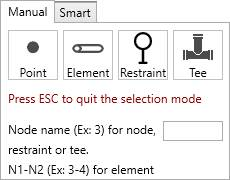
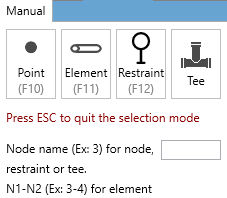
Corrections

diff --git a/Design/Elements/Bellow.md b/Design/Elements/Bellow.md
@@ -24,6 +24,14 @@ The **selection mode** is automatically set to **POINT**. You can so directly se
 
 ![Image](../../Images/Bellow2.jpg)
 
+By default, the orientation of the element is defined to **Insert** represented by a blue arrow with direction tangent to the previous element.
+
+You can decide to use the **orientation tool** to define another direction by unchecking this option. This panel will appear :
+
+![Image](../../Images/Orientation2.jpg)
+
+Click [here](https://documentation.metapiping.com/Design/Elements/Orientation.html) for more information about the orientation tool.
+
 **BELLOW PROPERTIES** :
 
 - Axial : *Axial and lateral displacements and rotations are permitted*
@@ -31,8 +39,6 @@ The **selection mode** is automatically set to **POINT**. You can so directly se
 - Lateral in all planes : *Lateral displacements are permitted in all directions perpendicular to the element axis Z’. No axial displacements nor rotations are permitted*
 - Angular in a single plane : *Rotations are only permitted about the local axis Y’. The movements are thus restricted to the plane defined by the local axes Z’ and X’*
 - Angular in all planes : *Rotations are permitted about all axes perpendicular to Z’*
-
->The length must be defined by the **orientation tool**.
 
 Based on **type**, you have to define several properties :
 
@@ -128,11 +134,21 @@ The tables will be filled automatically.
 
 Click [here](https://documentation.metapiping.com/Settings/Databases/Components.html) for more information about creation of library of components.
 
-**Label** :
+**X-AXIS DIRECTION** :
+
+You can define the **X-axis** vector by defining Xx, Xy, Xz in global coordinates.
+
+Use the left and right keyboard arrows to turn the **X-axis** vector 90°/-90°around the tangent direction.
+
+**LABEL** :
 
 You can define a label to this element. The labels are shown with the node names view button.
 
 ![Image](../../Images/Label1.jpg)
+
+**NEXT NODE** :
+
+You can set the next extremity node name of the element. If blank, the software will define it automatically. The software will also check that the name doesn't already exist.
 
 ---
 

diff --git a/Design/Elements/Flange.md b/Design/Elements/Flange.md
@@ -24,6 +24,14 @@ The **selection mode** is automatically set to **POINT**. You can so directly se
 
 ![Image](../../Images/Flange2.jpg)
 
+By default, the orientation of the element is defined to **Insert** represented by a blue arrow with direction tangent to the previous element.
+
+You can decide to use the **orientation tool** to define another direction by unchecking this option. This panel will appear :
+
+![Image](../../Images/Orientation2.jpg)
+
+Click [here](https://documentation.metapiping.com/Design/Elements/Orientation.html) for more information about the orientation tool.
+
 **FLANGE PROPERTIES** :
 
 Define the properties of the new flange :
@@ -61,11 +69,17 @@ Click [here](https://documentation.metapiping.com/Settings/Databases/Components.
 
 You can define the **X-axis** vector by defining Xx, Xy, Xz in global coordinates.
 
-**Label** :
+Use the left and right keyboard arrows to turn the **X-axis** vector 90°/-90°around the tangent direction.
+
+**LABEL** :
 
 You can define a label to this element. The labels are shown with the node names view button.
 
 ![Image](../../Images/Label1.jpg)
+
+**NEXT NODE** :
+
+You can set the next extremity node name of the element. If blank, the software will define it automatically. The software will also check that the name doesn't already exist.
 
 ---
 
@@ -92,6 +106,10 @@ You can change the **specification** and **section/material** of the flange.
 **X-AXIS DIRECTION** :
 
 You can change the **X-axis** vector by defining Xx, Xy, Xz in global coordinates.
+
+**LABEL** :
+
+You can modify the label of the valve. The labels are shown with the node names view button.
 
 Click on the **Modify** button to change the selected flange with these new properties.
 

diff --git a/Design/Elements/Socket.md b/Design/Elements/Socket.md
@@ -24,6 +24,14 @@ The **selection mode** is automatically set to **POINT**. You can so directly se
 
 ![Image](../../Images/Socket2.jpg)
 
+By default, the orientation of the element is defined to **Insert** represented by a blue arrow with direction tangent to the previous element.
+
+You can decide to use the **orientation tool** to define another direction by unchecking this option. This panel will appear :
+
+![Image](../../Images/Orientation2.jpg)
+
+Click [here](https://documentation.metapiping.com/Design/Elements/Orientation.html) for more information about the orientation tool.
+
 **SOCKET PROPERTIES** :
 
 | Property | Unit Metric | Unit USA |
@@ -38,6 +46,8 @@ The **selection mode** is automatically set to **POINT**. You can so directly se
 
 You can define the **X-axis** vector by defining Xx, Xy, Xz in global coordinates.
 
+Use the left and right keyboard arrows to turn the **X-axis** vector 90°/-90°around the tangent direction.
+
 **DATABASE** :
 
 To save time, you can also directly select a socket from **database** :
@@ -50,11 +60,15 @@ The tables will be filled automatically.
 
 Click [here](https://documentation.metapiping.com/Settings/Databases/Components.html) for more information about creation of library of components.
 
-**Label** :
+**LABEL** :
 
 You can define a label to this element. The labels are shown with the node names view button.
 
 ![Image](../../Images/Label1.jpg)
+
+**NEXT NODE** :
+
+You can set the next extremity node name of the element. If blank, the software will define it automatically. The software will also check that the name doesn't already exist.
 
 ---
 

diff --git a/Design/Elements/Valve.md b/Design/Elements/Valve.md
@@ -24,9 +24,9 @@ The **selection mode** is automatically set to **POINT**. You can so directly se
 
 ![Image](../../Images/Valve2.jpg)
 
-By default, the orientation of the valve is defined to **Tangent** (3) represented by a blue arrow.
+By default, the orientation of the valve is defined to **Insert** (3) represented by a blue arrow  with direction tangent to the previous element.
 
-You can decide to use the **orientation tool** by unchecking the option :
+You can decide to use the **orientation tool** to define another direction by unchecking this option (4) :
 
 ![Image](../../Images/Valve3.jpg)
 
@@ -85,6 +85,12 @@ You can define a label to the valve. The labels are shown with the node names vi
 
 You can define the **X-axis** vector by defining Xx, Xy, Xz in global coordinates.
 
+Use the left and right keyboard arrows to turn the **X-axis** vector 90°/-90°around the tangent direction.
+
+**NEXT NODE** :
+
+You can set the next extremity node name of the element. If blank, the software will define it automatically. The software will also check that the name doesn't already exist.
+
 ---
 
 You can then define the second point of the valve thanks to the **Orientation tool**.
@@ -116,6 +122,8 @@ You can change the **specification** and **section/material** of the valve.
 **X-AXIS DIRECTION** :
 
 You can change the **X-axis** vector by defining Xx, Xy, Xz in global coordinates.
+
+Use the left and right keyboard arrows to turn the **X-axis** vector 90°/-90°around the tangent direction.
 
 Click on the **Modify** button to change the selected valve with these new properties.
 

diff --git a/Design/Elements/Reducer.md b/Design/Elements/Reducer.md
@@ -57,11 +57,11 @@ You can change the **flexibility factor** of the reducer. If blank, default valu
 
 You can change the **X-axis** vector by defining Xx, Xy, Xz in global coordinates.
 
-**Label** :
+Use the left and right keyboard arrows to turn the **X-axis** vector 90°/-90°around the tangent direction.
+
+**LABEL** :
 
 You can define a label to this element. The labels are shown with the node names view button.
-
-![Image](../../Images/Label1.jpg)
 
 **LONG WELD** :
 
@@ -76,6 +76,10 @@ For the type, you can choose between :
 Based on this property, define the **Long weld mismatch** [mm or in].
 
 In this example, the default values correspond to the first section preset.
+
+**NEXT NODE** :
+
+You can set the next extremity node name of the element. If blank, the software will define it automatically. The software will also check that the name doesn't already exist.
 
 ---
 
@@ -107,7 +111,7 @@ You can **undo** this command.
 
 **ECCENTRIC REDUCER** :
 
-Uncheck the **Concentric** checkbox and define at which side of the pipe you want to be tangent (thanks to the **Angle** property) :
+Check the **Eccentric** checkbox and define at which side of the pipe you want to be tangent (thanks to the **Angle** property) :
 
 ![Image](../../Images/Reducer8.jpg)
 
@@ -154,6 +158,10 @@ You can change the **flexibility factor** of the reducer. If blank, default valu
 **X-AXIS DIRECTION** :
 
 You can change the **X-axis** vector by defining Xx, Xy, Xz in global coordinates.
+
+**LABEL** :
+
+You can change the label of the element.
 
 **SECTION AND MATERIAL** :
 

diff --git a/Structure/Modification.md b/Structure/Modification.md
@@ -15,9 +15,9 @@ Click on **Select** button to open the selection window :
 
 ![Image](../Images/Selection9.jpg)
 
-- Click on **Point** to select nodes
-- Click on **Element** to select elements (beam, rigid and spring)
-- Click on **Restraint** to select restraints
+- Click on **Point** to select nodes (or F10)
+- Click on **Element** to select elements (beam, rigid and spring) (or F11)
+- Click on **Restraint** to select restraints (or F12)
 - Press **ESC** on keyboard to hide the selection window
 
 You can now select objects of the corresponding type.
@@ -174,3 +174,27 @@ The point **52** moved.
 >The graphical ending of the "green" beam and the welding have been automatically recalculated !
 
 You can **Undo** this command.
+
+## 7. Properties
+
+![Image](../Images/StructureProperties.jpg)
+
+### 7.1 Section
+
+As in review, the **Section** property shows all sections used in the model with a colored map :
+
+![Image](../Images/StructurePropertiesSection1.jpg)
+
+MetaStructure let you change the section of multiple elements in one operation.
+
+Select multiple elements, a section, and click on the **Modify** button :
+
+![Image](../Images/StructurePropertiesSection2.jpg)
+
+You can **Undo** this command.
+
+Remarks :
+
+>The section proposed are those from **Data** screen.
+
+>If the sections are different between several selected elements, **Variable** will appear. You have to specify the wanted new section to be able to modify.

diff --git a/Design/Elements/Structural.md b/Design/Elements/Structural.md
@@ -26,6 +26,14 @@ The **selection mode** is automatically set to **POINT**. You can so directly se
 
 ![Image](../../Images/Structural2.jpg)
 
+By default, the orientation of the element is defined to **Insert** represented by a blue arrow with direction tangent to the previous element.
+
+You can decide to use the **orientation tool** to define another direction by unchecking this option. This panel will appear :
+
+![Image](../../Images/Orientation2.jpg)
+
+Click [here](https://documentation.metapiping.com/Design/Elements/Orientation.html) for more information about the orientation tool.
+
 **STRUCTURAL PROPERTIES** :
 
 | Property | Unit Metric | Unit USA |
@@ -40,11 +48,17 @@ The **selection mode** is automatically set to **POINT**. You can so directly se
 
 You can define the **X-axis** vector by defining Xx, Xy, Xz in global coordinates.
 
-**Label** :
+Use the left and right keyboard arrows to turn the **X-axis** vector 90°/-90°around the tangent direction.
+
+**LABEL** :
 
 You can define a label to this element. The labels are shown with the node names view button.
 
 ![Image](../../Images/Label1.jpg)
+
+**NEXT NODE** :
+
+You can set the next extremity node name of the element. If blank, the software will define it automatically. The software will also check that the name doesn't already exist.
 
 ---
 

diff --git a/Design/Elements/Pipe.md b/Design/Elements/Pipe.md
@@ -30,6 +30,22 @@ The Diameter and Thickness properties come from the **current specification**.
 
     To know the UNIT of the value, just let the mouse over the cell. 
 
+**LABEL** :
+
+You can define a label to this element. The labels are shown with the node names view button.
+
+![Image](../../Images/Label1.jpg)
+
+**X-AXIS DIRECTION** :
+
+You can define the **X-axis** vector by defining Xx, Xy, Xz in global coordinates.
+
+Use the left and right keyboard arrows to turn the **X-axis** vector 90°/-90°around the tangent direction.
+
+**NEXT NODE** :
+
+You can set the next extremity node name of the element. If blank, the software will define it automatically. The software will also check that the name doesn't already exist.
+
 The only thing you have to do is to select how to draw the pipe.
 
 Click [here](https://documentation.metapiping.com/Design/Elements/Orientation.html) for more information about the orientation tool.
@@ -53,6 +69,7 @@ The **selection mode** is automatically set to **POINT**. You can so directly se
 Click [here](https://documentation.metapiping.com/Design/Selection.html) for more information about the selection tool.
 
 MetaPiping checks the section of the element on the selected node.
+
 
 ### 2.1 Same section
 

diff --git a/Design/Modification.md b/Design/Modification.md
@@ -15,9 +15,9 @@ Click on **Select** button to open the selection window :
 
 ![Image](../Images/Selection.jpg)
 
-- Click on **Point** to select nodes
-- Click on **Element** to select piping elements (pipe, bend, reducer, valve, etc.)
-- Click on **Restraint** to select restraints
+- Click on **Point** to select nodes (or F10)
+- Click on **Element** to select piping elements (pipe, bend, reducer, valve, etc.) (or F11)
+- Click on **Restraint** to select restraints (or F12)
 - Click on **Tee** to select nodes where a tee has been assigned
 - Press **ESC** on keyboard to hide the selection window
 
@@ -382,6 +382,8 @@ Select multiple elements, a specification and a section, and click on the **Modi
 ![Image](../Images/Modification30.jpg)
 
 You can **Undo** this command.
+
+>If the sections are different between several selected elements, **Variable** will appear. You have to specify the wanted new section to be able to modify.
 
 ### 9.7 End conditions
 

diff --git a/Design/Elements/Rigid.md b/Design/Elements/Rigid.md
@@ -44,11 +44,17 @@ Click [here](https://documentation.metapiping.com/Design/Specification/Data.html
 
 You can define the **X-axis** vector by defining Xx, Xy, Xz in global coordinates.
 
-**Label** :
+Use the left and right keyboard arrows to turn the **X-axis** vector 90°/-90°around the tangent direction.
+
+**LABEL** :
 
 You can define a label to this element. The labels are shown with the node names view button.
 
 ![Image](../../Images/Label1.jpg)
+
+**NEXT NODE** :
+
+You can set the next extremity node name of the element. If blank, the software will define it automatically. The software will also check that the name doesn't already exist.
 
 ---
 

diff --git a/Design/Elements/Spring.md b/Design/Elements/Spring.md
@@ -48,11 +48,17 @@ Click [here](https://documentation.metapiping.com/Design/Specification/Data.html
 
 You can define the **X-axis** vector by defining Xx, Xy, Xz in global coordinates.
 
-**Label** :
+Use the left and right keyboard arrows to turn the **X-axis** vector 90°/-90°around the tangent direction.
+
+**LABEL** :
 
 You can define a label to this element. The labels are shown with the node names view button.
 
 ![Image](../../Images/Label1.jpg)
+
+**NEXT NODE** :
+
+You can set the next extremity node name of the element. If blank, the software will define it automatically. The software will also check that the name doesn't already exist.
 
 ---
 

diff --git a/Design/Elements/Bend.md b/Design/Elements/Bend.md
@@ -154,6 +154,10 @@ You can define a label to this element. The labels are shown with the node names
 
 ![Image](../../Images/Label1.jpg)
 
+### 2.5 Next node
+
+You can set the next extremity node name of the element. If blank, the software will define it automatically. The software will also check that the name doesn't already exist.
+
 ## 3. Create a bend with 2 points
 
 ![Image](../../Images/Bend19.jpg)
